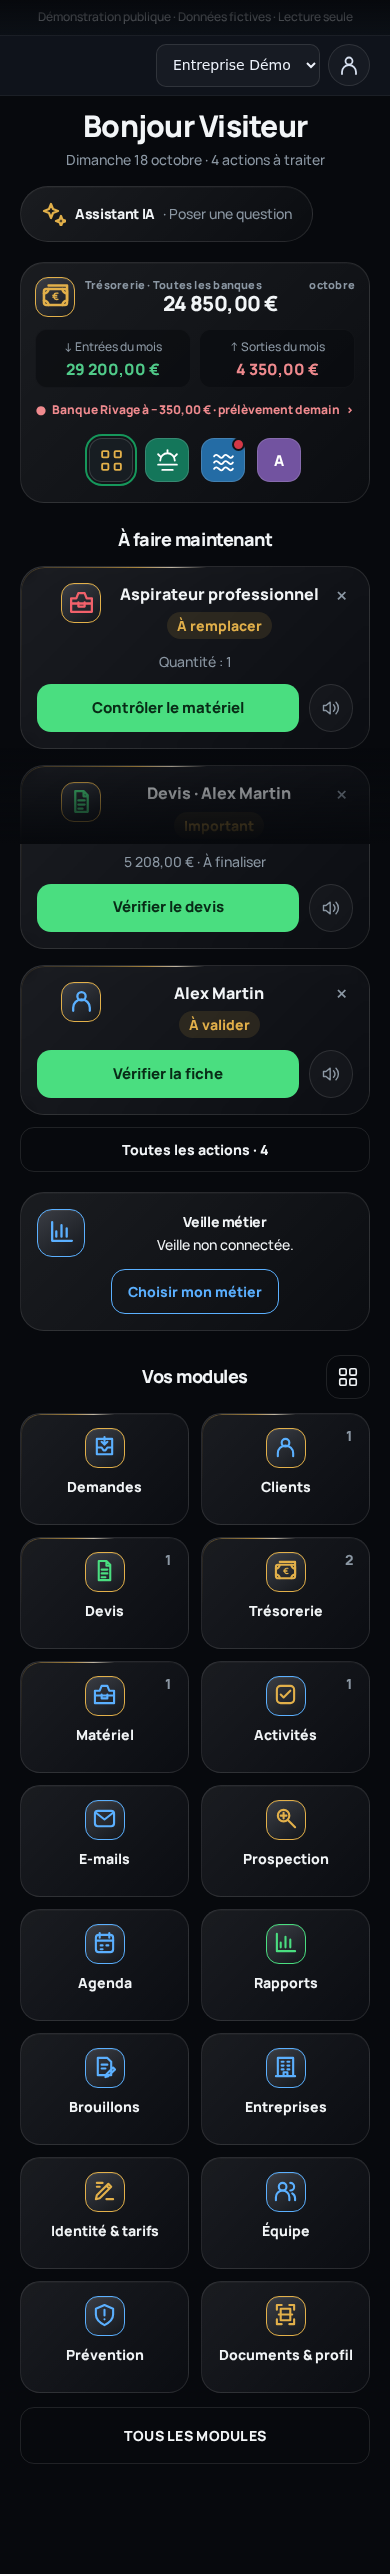
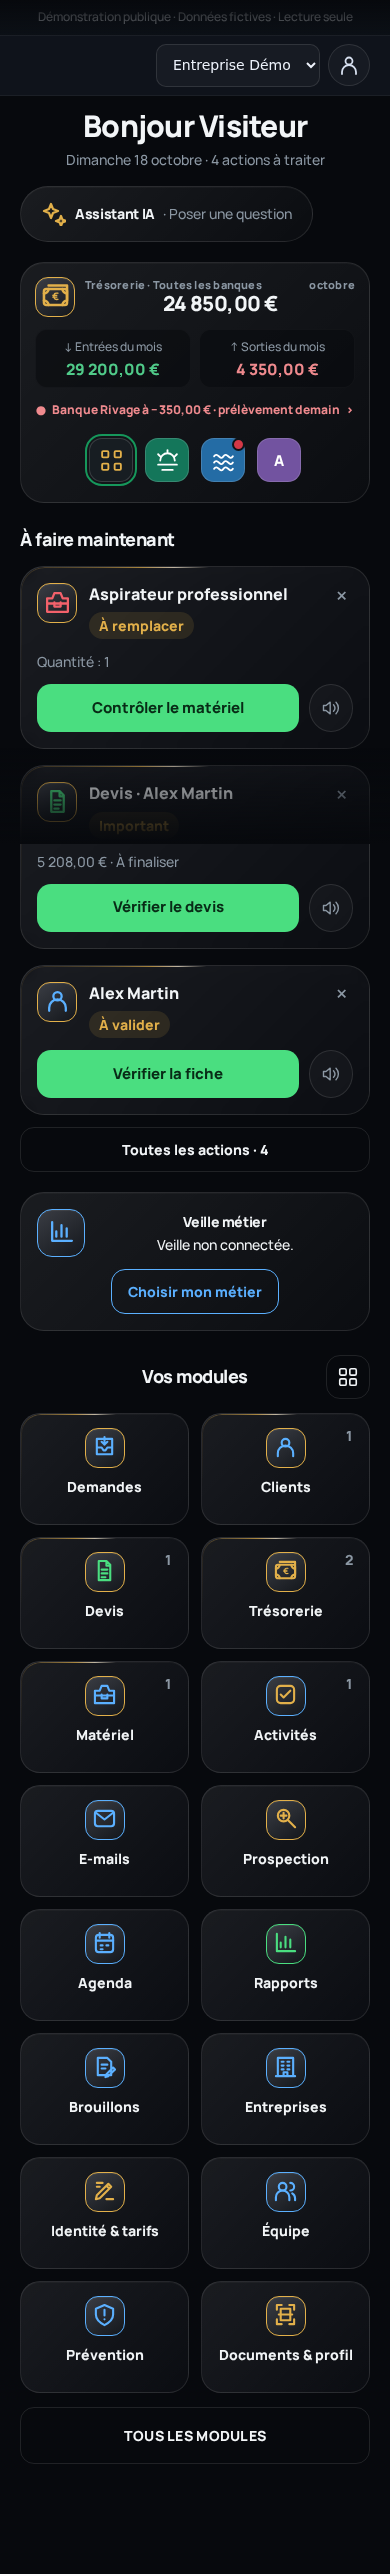
Restore left alignment for demo action cards while retaining centered welcome and assistant

diff --git a/static/demo-home.css b/static/demo-home.css
@@ -1,15 +1,11 @@
 /* Demo home alignment only; preserve the existing palette and card dimensions. */
 body[data-public-demo] .reference-home,
 body[data-public-demo] .reference-home .home-heading,
-body[data-public-demo] .reference-home .home-day,
-body[data-public-demo] .reference-home .home-section-title{text-align:center}
+body[data-public-demo] .reference-home .home-day{text-align:center}
+body[data-public-demo] .reference-home .home-section-title{text-align:left}
 body[data-public-demo] .reference-home .assistant-dock{justify-content:center;text-align:center}
 body[data-public-demo] .reference-home .assistant-dock .assistant-dock-hint{flex:0 1 auto;min-width:0;text-align:center}
 body[data-public-demo] .reference-home .assistant-spark{margin-right:0}
-body[data-public-demo] .reference-home .priority-card .priority-tile{text-align:center}
-body[data-public-demo] .reference-home .priority-top{justify-content:center;padding-left:24px}
-body[data-public-demo] .reference-home .priority-labels{justify-content:center}
-body[data-public-demo] .reference-home .priority-copy{text-align:center}
 body[data-public-demo] .reference-home .home-sector{justify-content:center}
 body[data-public-demo] .reference-home .home-sector>div{text-align:center}
 body[data-public-demo] .reference-home .home-modules-heading{position:relative;justify-content:center;min-height:44px;padding:0 48px}

diff --git a/demo_routes.py b/demo_routes.py
@@ -10,7 +10,7 @@ def install(app, base: Path):
     @app.get('/demo/', include_in_schema=False)
     def demo_home():
         html = (base / 'static/admin.html').read_text()
-        html = html.replace('</head>', '<meta name="robots" content="noindex,nofollow"><script src="/static/demo.js?v=review-1" defer></script><script src="/static/demo-treasury.js?v=dark-squares-6" defer></script><link rel="stylesheet" href="/static/demo-home.css?v=center-1"></head>')
+        html = html.replace('</head>', '<meta name="robots" content="noindex,nofollow"><script src="/static/demo.js?v=review-1" defer></script><script src="/static/demo-treasury.js?v=dark-squares-6" defer></script><link rel="stylesheet" href="/static/demo-home.css?v=center-2"></head>')
         html = html.replace('<body>', '<body data-public-demo="true"><aside class="demo-notice" role="note">Démonstration publique · Données fictives · Lecture seule</aside>')
         return HTMLResponse(html, headers={'Cache-Control': 'no-store', 'X-Robots-Tag': 'noindex, nofollow'})
 
